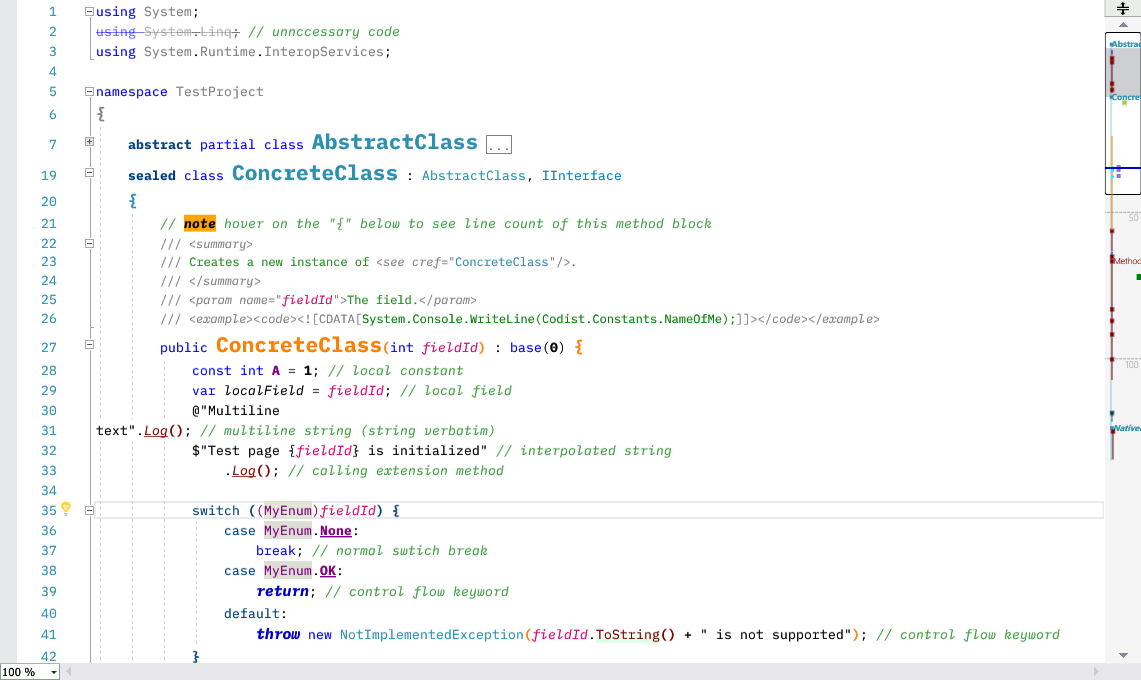
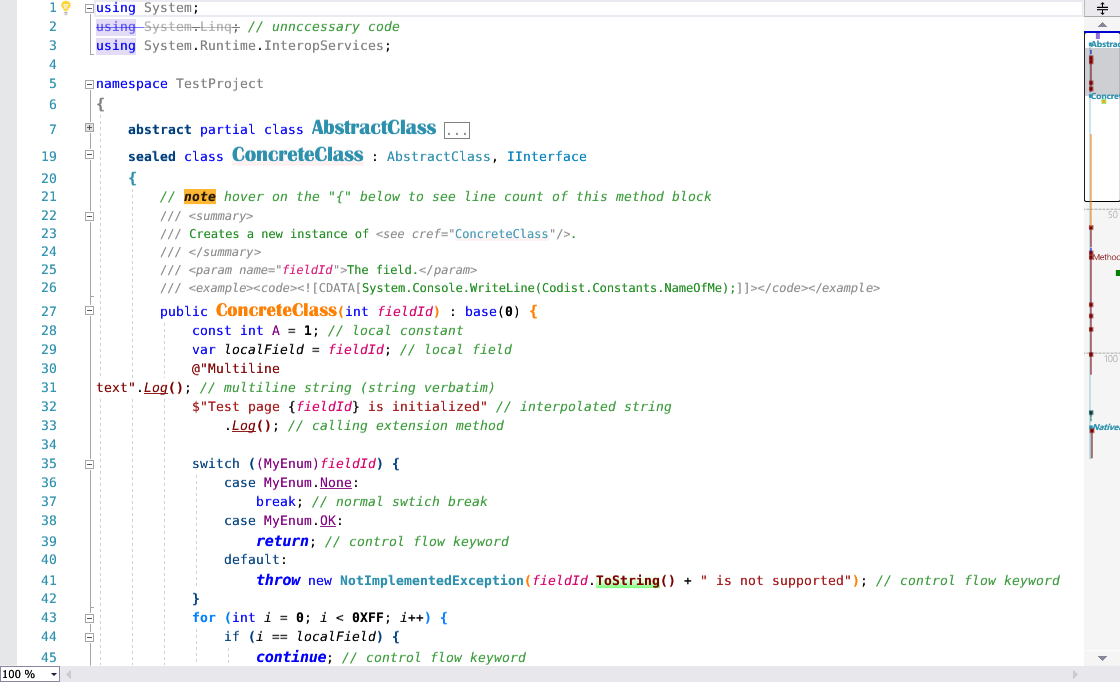
! Updated documentation

diff --git a/README.md b/README.md
@@ -23,11 +23,11 @@
   * The font size of type and member declarations can be enlarged, so it is much easier to spot them.
   * Syntax highlight can be applied to braces and parentheses.
   * Various syntax identifiers have different styles.
-  * Comment content can be tagged.
+  * Comment content can be tagged (e.g. _note_).
   * Unnecessary code is marked strike-through.
-  * Keywords are categorized and highlighted with various styles.
+  * Keywords are categorized and highlighted with various styles (e.g. `abstract` and `sealed`, `return` and `throw`, etc.).
   * Overriding methods (such as `ToString`) can be painted with gradient background color.
-  * Imported symbols (from external assemblies) can be marked with a different style (bold here)
+  * Imported symbols (from external assemblies, e.g. `NotImplementedException`, `ToString`) can be marked with a different style (bold here)
   * All the above styles are customizable.
  
   ![Syntax highlight](doc/highlight1.png) 
@@ -88,7 +88,7 @@ The quick info (the tooltip shown when you hover your mouse pointer on your C# s
 
 * **Size restriction** 
 
-    Sometimes the size of Quick Info can take up a lot of space. It is possible to limit its size with *Super Quick Info*.
+    Sometimes the Quick Info can take up a lot of space, covering almost half of the screen. It is possible to limit its size with *Super Quick Info*.
 
   ![Super Quick Info 7](doc/super-quick-info-7.png)
 
@@ -110,7 +110,7 @@ The quick info (the tooltip shown when you hover your mouse pointer on your C# s
 
   ![Super Quick Info 10](doc/super-quick-info-10.png)
 
-    The overridden Quick Info also provides the ability to inherite XML Doc descriptions from base types or interfaces.
+    The overridden Quick Info also provides the ability to inherite XML Doc descriptions from base `class`es or `interface`s.
 
   ![Super Quick Info 12](doc/super-quick-info-12.png)
 
@@ -142,7 +142,8 @@ The quick info (the tooltip shown when you hover your mouse pointer on your C# s
 
   ![Super Quick Info 2](doc/super-quick-info-2.png)
 
-* **String length and Hash codes** for string constants. (Hint: We can use Hash codes to quickly compare whether two strings that look alike are identical)
+* **String length and Hash codes** for string constants.
+  (Hint: We can use Hash codes to quickly compare whether two strings that look alike are identical)
 
   ![Super Quick Info 3](doc/super-quick-info-3.png)
 
@@ -150,7 +151,7 @@ The quick info (the tooltip shown when you hover your mouse pointer on your C# s
 
   ![Super Quick Info 4](doc/super-quick-info-param.png)
 
-* **Method overloads** shows possible overloads of a method that you may be interested in.
+* **Method overloads** shows possible overloads of a method (including applicable extension methods).
 
   ![Super Quick Info 9](doc/super-quick-info-9.png)
 
@@ -160,13 +161,13 @@ The quick info (the tooltip shown when you hover your mouse pointer on your C# s
 
 ## Smart Bar
 
-The *Smart Bar* is a context-aware tool bar appeared automatically when you select some text, or double tap the Shift key on your keyboard.
+The *Smart Bar* is a context-aware tool bar that appears automatically when you select some text, or double tap the _Shift_ key on your keyboard.
 
-It brings commonly used operations for the selection.
+It brings commonly used operations for the selection, such as editing operations like _Cut_, _Copy_, _Paste_,  _Delete_, _Duplicate_, _Find_, code analysis operations like _Go to defintion_, _Find references_, refactoring operations like _Rename_, _Extract method_, etc.
 
   ![Smart Bar](doc/smart-bar.png)
 
-Buttons on the *Smart Bar* changes from contexts.
+Buttons on the *Smart Bar* changes according to contexts.
 
   ![Smart Bar](doc/smart-bar-2.png)
 
